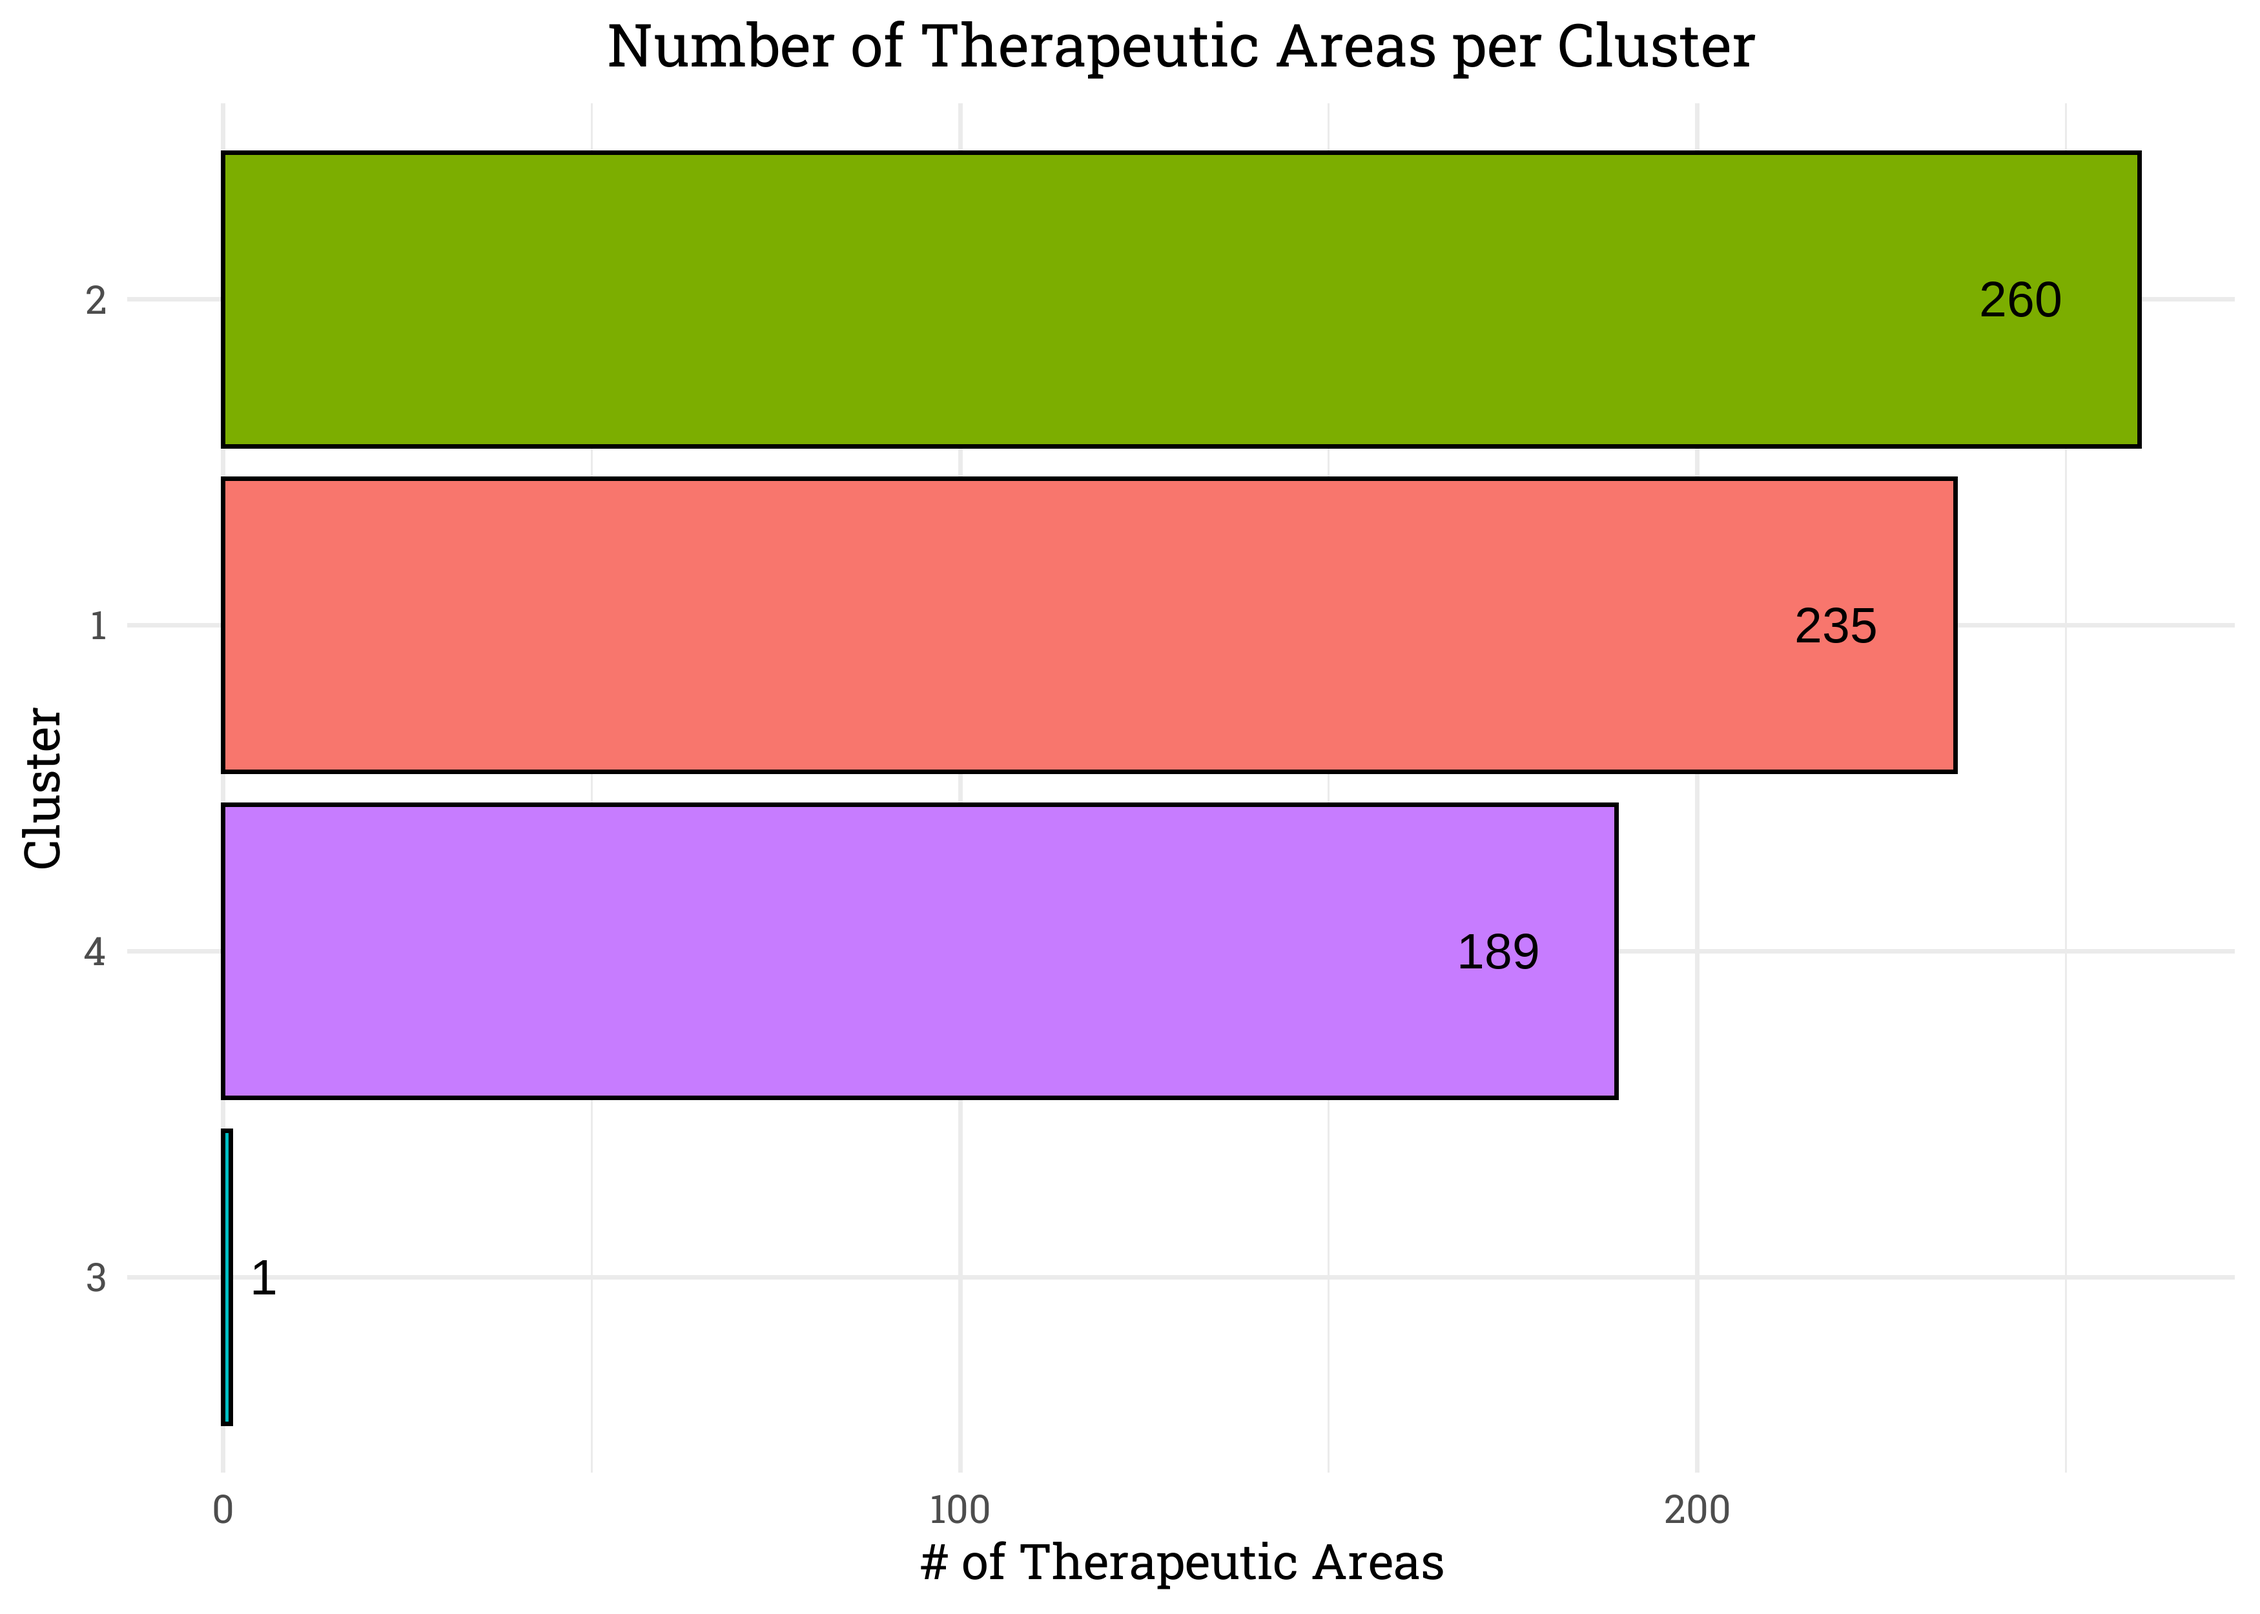
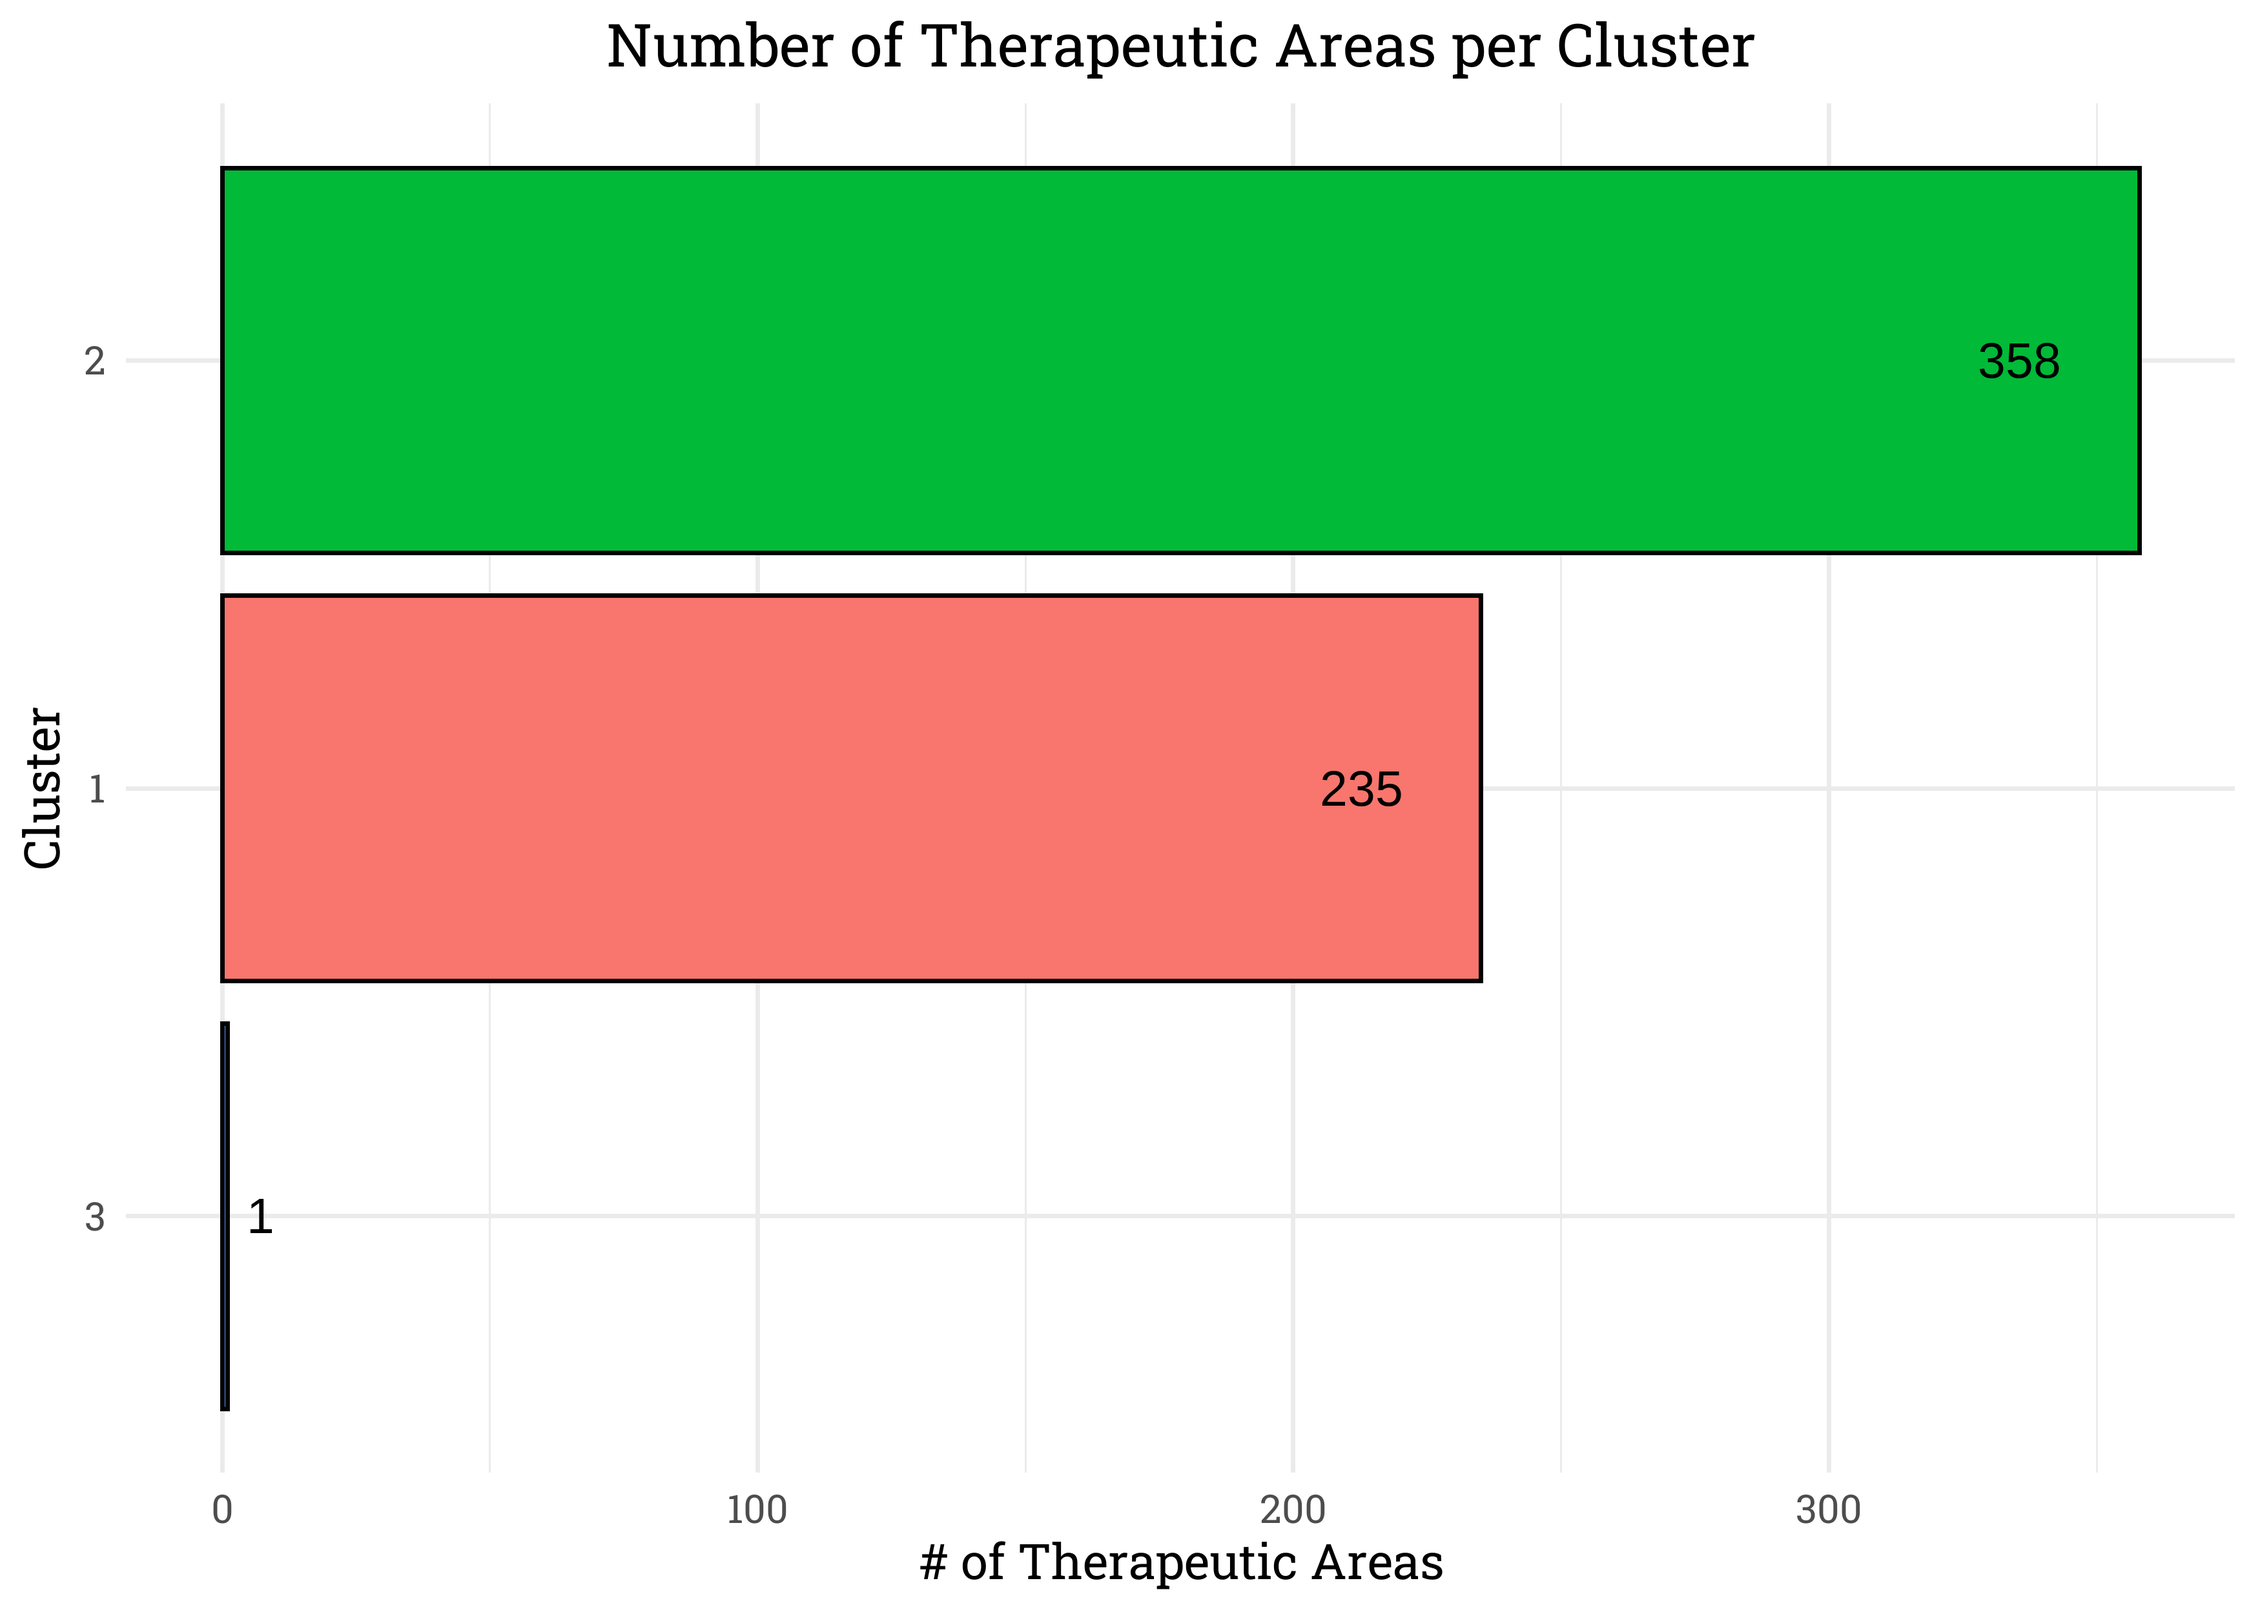
Biosimilar plot

diff --git a/2023/03-14-23/Drugs.md b/2023/03-14-23/Drugs.md
@@ -12,11 +12,14 @@ Matthew
     id="toc-authorization-status">Authorization Status</a>
   - <a href="#active-substance" id="toc-active-substance">Active
     Substance</a>
-  - <a href="#companies" id="toc-companies">Companies</a>
     - <a href="#cluster" id="toc-cluster">Cluster</a>
+  - <a href="#biosimilar" id="toc-biosimilar">Biosimilar</a>
 
 ``` r
 drugs <- read_csv('https://raw.githubusercontent.com/rfordatascience/tidytuesday/master/data/2023/2023-03-14/drugs.csv')
+
+drugs$marketing_authorisation_holder_company_name <- 
+  str_trim(drugs$marketing_authorisation_holder_company_name)
 ```
 
 # EDA
@@ -261,8 +264,6 @@ dlong %>%
     ## 1 Diabetes Mellitus        117
     ## 2 Diabetes Complications     5
 
-## Companies
-
 ### Cluster
 
 In order to cluster, we must first create a binary matrix. The following
@@ -280,7 +281,7 @@ binary_matrix <- unique_df %>%
 ```
 
 Next, a distance matrix is created, while ignoring the first column
-“*medicine name”*.
+“*active substance”*.
 
 ``` r
 set.seed(123)
@@ -291,14 +292,19 @@ tot_withinss <- map_dbl(2:10, function(k){
   model$tot.withinss
 })
 
-plot(tot_withinss)
+plot(tot_withinss, type = "b", pch = 19, col = "blue")
 ```
 
 ![](Drugs_files/figure-gfm/unnamed-chunk-13-1.png)<!-- -->
 
+The heuristic is to choose a *k* value that is at the “elbow” of the
+plot, and thus we choose 3. This cluster most likely does not represent
+anything true about the data set, but may allow us to find some
+patterns.
+
 ``` r
 set.seed(321)
-clusters <- kmeans(dist_matrix, 4, 5)
+clusters <- kmeans(dist_matrix, 3, 5)
 
 new_df <- data.frame(active_substance = binary_matrix$active_substance,
                      cluster = clusters$cluster)
@@ -318,19 +324,19 @@ dlong_cluster %>%
 ```
 
     ## # A tibble: 1,806 x 4
-    ## # Groups:   cluster, main_thera [683]
-    ##    cluster main_thera               active_substance     n
-    ##      <int> <chr>                    <chr>            <int>
-    ##  1       4 Arthritis                adalimumab          43
-    ##  2       4 Carcinoma                bevacizumab         22
-    ##  3       4 Spondylitis              adalimumab          16
-    ##  4       4 Crohn Disease            adalimumab          14
-    ##  5       4 Psoriasis                adalimumab          14
-    ##  6       4 Colitis                  adalimumab          13
-    ##  7       4 Uveitis                  adalimumab          13
-    ##  8       4 Arthritis                etanercept          12
-    ##  9       4 Hidradenitis Suppurativa adalimumab          12
-    ## 10       4 Breast Neoplasms         bevacizumab         11
+    ## # Groups:   cluster, main_thera [592]
+    ##    cluster main_thera   active_substance           n
+    ##      <int> <chr>        <chr>                  <int>
+    ##  1       3 Hemophilia A octocog alfa               5
+    ##  2       3 Hemophilia A simoctocog alfa            2
+    ##  3       3 Hemophilia A damoctocog alfa pegol      1
+    ##  4       3 Hemophilia A efmoroctocog alfa          1
+    ##  5       3 Hemophilia A emicizumab                 1
+    ##  6       3 Hemophilia A lonoctocog alfa            1
+    ##  7       3 Hemophilia A moroctocog alfa            1
+    ##  8       3 Hemophilia A rurioctocog alfa pegol     1
+    ##  9       3 Hemophilia A susoctocog alfa            1
+    ## 10       3 Hemophilia A turoctocog alfa            1
     ## # ... with 1,796 more rows
 
 ``` r
@@ -350,17 +356,17 @@ dlong_cluster %>%
     ## # A tibble: 11 x 2
     ##    main_thera            n_clusters
     ##    <chr>                      <int>
-    ##  1 Arthritis                      3
-    ##  2 Breast Neoplasms               3
-    ##  3 Carcinoma                      3
-    ##  4 Diabetes Mellitus              3
-    ##  5 Leukemia                       3
-    ##  6 Lymphoma                       3
-    ##  7 Myocardial Infarction          3
-    ##  8 Cancer                         2
-    ##  9 HIV Infections                 2
-    ## 10 Hypertension                   2
-    ## 11 Immunization                   2
+    ##  1 Arthritis                      2
+    ##  2 Breast Neoplasms               2
+    ##  3 Carcinoma                      2
+    ##  4 Diabetes Mellitus              2
+    ##  5 HIV Infections                 2
+    ##  6 Hypertension                   2
+    ##  7 Leukemia                       2
+    ##  8 Lymphoma                       2
+    ##  9 Myocardial Infarction          2
+    ## 10 Cancer                         1
+    ## 11 Immunization                   1
 
 ``` r
 dlong_cluster %>% 
@@ -376,3 +382,52 @@ dlong_cluster %>%
 ```
 
 ![](Drugs_files/figure-gfm/unnamed-chunk-17-1.png)<!-- -->
+
+## Biosimilar
+
+``` r
+drugs %>% 
+  filter(biosimilar) %>% 
+  group_by(active_substance) %>% 
+  summarize(n = n_distinct(marketing_authorisation_holder_company_name)) %>% 
+  arrange(-n)
+```
+
+    ## # A tibble: 21 x 2
+    ##    active_substance     n
+    ##    <chr>            <int>
+    ##  1 adalimumab           9
+    ##  2 bevacizumab          8
+    ##  3 pegfilgrastim        8
+    ##  4 filgrastim           7
+    ##  5 teriparatide         6
+    ##  6 trastuzumab          6
+    ##  7 infliximab           4
+    ##  8 epoetin alfa         3
+    ##  9 etanercept           3
+    ## 10 insulin aspart       3
+    ## # ... with 11 more rows
+
+``` r
+drugs %>% 
+  mutate(marketing_authorisation_holder_company_name = str_trim(
+    marketing_authorisation_holder_company_name
+  )) %>% 
+  group_by(name = marketing_authorisation_holder_company_name) %>% 
+  summarize(n = sum(biosimilar),
+            prop = mean(biosimilar)) %>% 
+  arrange(-n) %>% 
+  slice_max(n, n = 6) %>%
+  ggplot(aes(prop, fct_reorder(name, prop), fill = n)) +
+  geom_col(color = "black") +
+  geom_text(aes(label = paste(n, "/", n/prop), hjust = ifelse(prop > 0.25,
+                                                              1.5,
+                                                              -.5))) +
+  scale_x_continuous(labels = percent_format()) +
+  labs(y = "", x = "",
+       title = "Six Companies with the Most Biosimilar Drugs",
+       subtitle = "Biosimilar drugs are those that have the same\nactive ingredients with another") +
+  theme(legend.position = "none")
+```
+
+![](Drugs_files/figure-gfm/unnamed-chunk-18-1.png)<!-- -->
